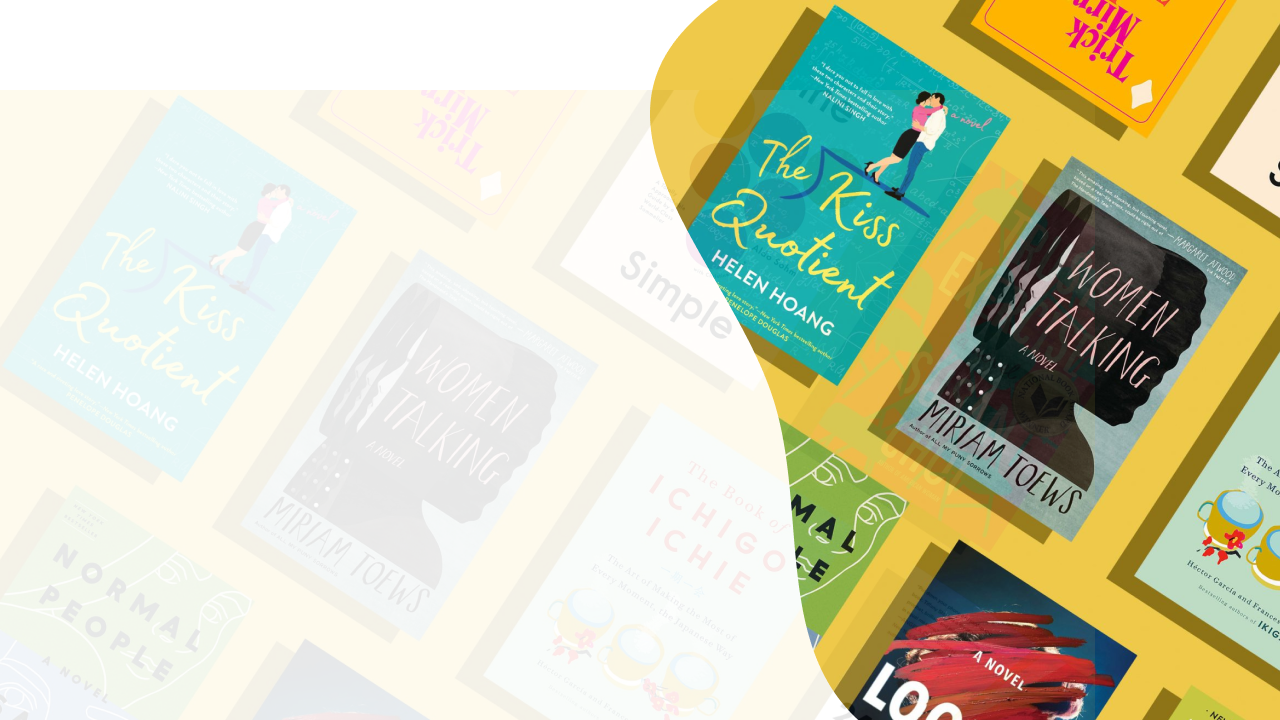
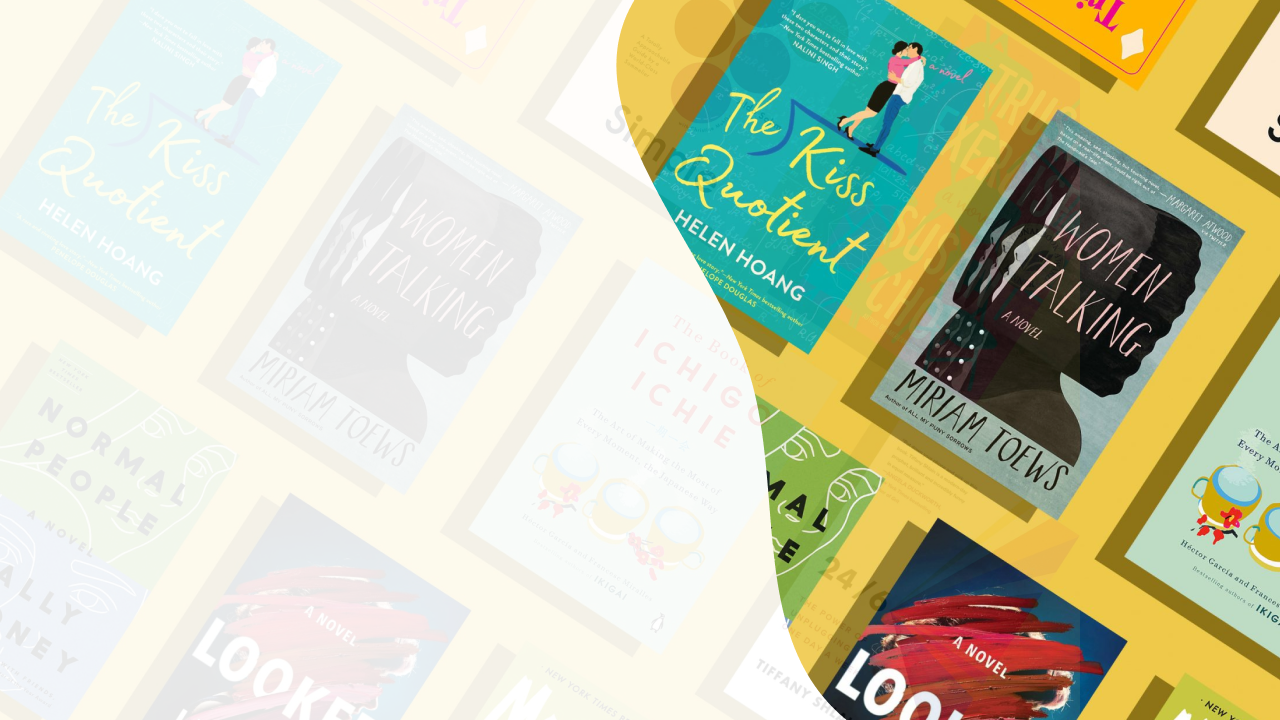
FIxed styling for all the publichome components

diff --git a/src/components/publichome/Genre.module.css b/src/components/publichome/Genre.module.css
@@ -3,8 +3,8 @@
   background-position: top center;
   background-repeat: no-repeat;
   background-size: cover;
-  height: 120vh;
-  background-color: rgb(197, 165, 40);
+  height: 100%;
+
   padding: 2rem 0;
 }
 
@@ -36,9 +36,8 @@
 }
 
 .genre-img {
-  margin: 0 auto;
   padding: 3rem 0;
-  width: 90%;
+  width: 100%;
 }
 
 .genre-img img {
@@ -46,26 +45,18 @@
 }
 
 @media (min-width: 768px) {
-  .genre {
-    height: 140vh;
-  }
-
-  .genre-img {
-    padding: 0;
-    width: 80%;
-  }
-
   .genre article {
     width: 65%;
     margin: 0 auto;
   }
+
+  .genre-group {
+    grid-template-columns: repeat(auto-fit, minmax(100px, 150px));
+    justify-content: center;
+  }
 }
 
 @media (min-width: 1024px) {
-  .genre {
-    height: 100vh;
-  }
-
   .wrap {
     display: grid;
     grid-template-columns: repeat(2, 1fr);
@@ -83,8 +74,14 @@
     text-align: left;
   }
 
+  .genre-group {
+    justify-content: left;
+  }
+
   .genre article {
     width: 90%;
+    margin: 0;
+    margin-right: auto;
   }
 
   .genre-item {

diff --git a/src/components/publichome/TopPicks.module.css b/src/components/publichome/TopPicks.module.css
@@ -1,6 +1,6 @@
 .top-picks {
   padding: 3rem 0;
-  height: 120vh;
+  height: 100%;
 }
 
 .top-picks-info {
@@ -8,27 +8,20 @@
 }
 
 .recommendations {
-  display: flex;
-  flex-direction: column;
-  justify-content: center;
+  display: grid;
+  grid-template-columns: repeat(auto-fit, minmax(250px, 1fr));
+  gap: 3rem;
   align-items: center;
-  gap: 6rem;
-  margin: 5rem 0;
+  place-items: center;
+
+  margin-top: 2rem;
 }
 
 @media (min-width: 768px) {
-  .top-picks {
-    height: 100vh;
-  }
-  .recommendations {
-    flex-direction: row;
-    margin-top: 8rem;
-    margin-bottom: 0;
-  }
-
   .top-picks-info {
     width: 70%;
     margin: 3rem auto;
+    gap: 0;
   }
 }
 
@@ -37,11 +30,12 @@
     margin: 0;
     text-align: left;
     margin-right: auto;
-    width: 50%;
-    padding-top: 2rem;
+    width: 35%;
   }
 
   .recommendations {
     justify-content: left;
+    margin-top: 3rem;
+    justify-content: space-between;
   }
 }

diff --git a/src/components/publichome/Review.module.css b/src/components/publichome/Review.module.css
@@ -1,17 +1,44 @@
 .reviews {
   text-align: center;
   padding: 3rem 0;
-  background-image: url("../../images/reviews_bg.png");
-  background-repeat: no-repeat;
-  background-position: center;
-  background-size: cover;
-  height: 100vh;
+  height: 100%;
+  background-color: var(--light-grey);
 }
 
 .review-list {
-  margin-top: 4rem;
+  padding-top: 4rem;
+  display: grid;
+  grid-template-columns: repeat(auto-fit, minmax(200px, 1fr));
+  gap: 2rem;
+  place-items: center;
 }
 
 .review {
-  margin-bottom: 1.5rem;
+  padding-bottom: 1.5rem;
+  max-width: 300px;
+}
+
+@media (min-width: 768px) {
+  .reviews-info {
+    width: 50%;
+    margin: 0 auto;
+  }
+}
+
+@media (min-width: 1024px) {
+  .reviews-info {
+    width: 35%;
+  }
+
+  .reviews-info h1 {
+    text-align: center;
+  }
+
+  .reviews {
+    padding: 5rem 0 0;
+  }
+
+  .review-list {
+    padding: 8rem 0 2rem;
+  }
 }

diff --git a/src/components/publichome/Booktok.module.css b/src/components/publichome/Booktok.module.css
@@ -3,19 +3,55 @@
   background-position: center bottom;
   background-repeat: no-repeat;
   background-size: cover;
-  height: 90vh;
+  height: 100%;
+}
+.bookmark {
+  height: 40%;
 }
 
 .bookmark img {
   width: 100%;
   height: 100%;
-  object-fit: contain;
+  object-fit: cover;
 }
 
 .booktok-info {
-  margin: 5rem 0;
+  padding: 5rem 0;
 }
 
 .booktok-info {
   text-align: center;
+}
+
+@media (min-width: 768px) {
+  .bookmark {
+    height: 250px;
+    width: 100%;
+  }
+
+  .bookmark img {
+    object-fit: cover;
+  }
+  .booktok-info {
+    width: 50%;
+    margin: 0rem auto;
+    padding-top: 5rem;
+  }
+}
+
+@media (min-width: 1024px) {
+  .booktok-info {
+    text-align: center;
+    padding-top: 7rem;
+    width: 35%;
+  }
+
+  .booktok-info h1 {
+    text-align: center;
+  }
+
+  .bookmark {
+    width: 85%;
+    margin: 0 auto;
+  }
 }

diff --git a/src/components/publichome/Hero.module.css b/src/components/publichome/Hero.module.css
@@ -3,25 +3,24 @@
   background-position: center;
   background-repeat: none;
   background-size: cover;
-  height: 100vh;
+  height: 100%;
   padding-top: 80px;
 }
 
 .hero-text {
-  margin-top: 15rem;
+  padding: 15rem 0;
   width: 80%;
   max-width: 400px;
 }
 
 @media (min-width: 768px) {
   .hero-text {
-    margin-top: 10rem;
-    /* width: 60%; */
+    padding: 15rem 0 15rem;
   }
 }
 
 @media (min-width: 1024px) {
   .hero-text {
-    margin-top: 8rem;
+    padding: 10rem 0 12rem;
   }
 }

diff --git a/src/components/publichome/TopPicks.js b/src/components/publichome/TopPicks.js
@@ -45,6 +45,15 @@ const TopPicks = () => {
             src={ugly_love}
             bg="light-blue"
           />
+
+          <Recommendations
+            theme="yellow"
+            bookTitle="the cruel prince"
+            author="holly black"
+            genre="fantasy"
+            src={cruel_prince}
+            bg="light-yellow"
+          />
         </div>
       </Container>
     </section>

diff --git a/src/pages/PublicHome.js b/src/pages/PublicHome.js
@@ -39,9 +39,8 @@ const PublicHome = () => {
         alt="person reading a book"
         paragraph={paragraph}
       />
-      {/* <Booktok /> */}
       <TopPicks />
-
+      <Booktok />
       <Review />
     </section>
   );

diff --git a/src/ui/heading/Heading.module.css b/src/ui/heading/Heading.module.css
@@ -33,10 +33,6 @@
 
 /* Media Queries for Desktop  */
 @media (min-width: 1024px) {
-  .heading-lg,
-  .heading-lg span {
-    font-size: 5rem;
-  }
   .heading-md,
   .heading-md span {
     text-align: left;

diff --git a/src/components/recs/Recommendations.module.css b/src/components/recs/Recommendations.module.css
@@ -9,7 +9,7 @@
     rgba(0, 0, 0, 0.06) 0px 2px 4px -1px;
   position: relative;
   text-transform: capitalize;
-
+  margin: 3rem 0;
   max-width: 300px;
 }
 
